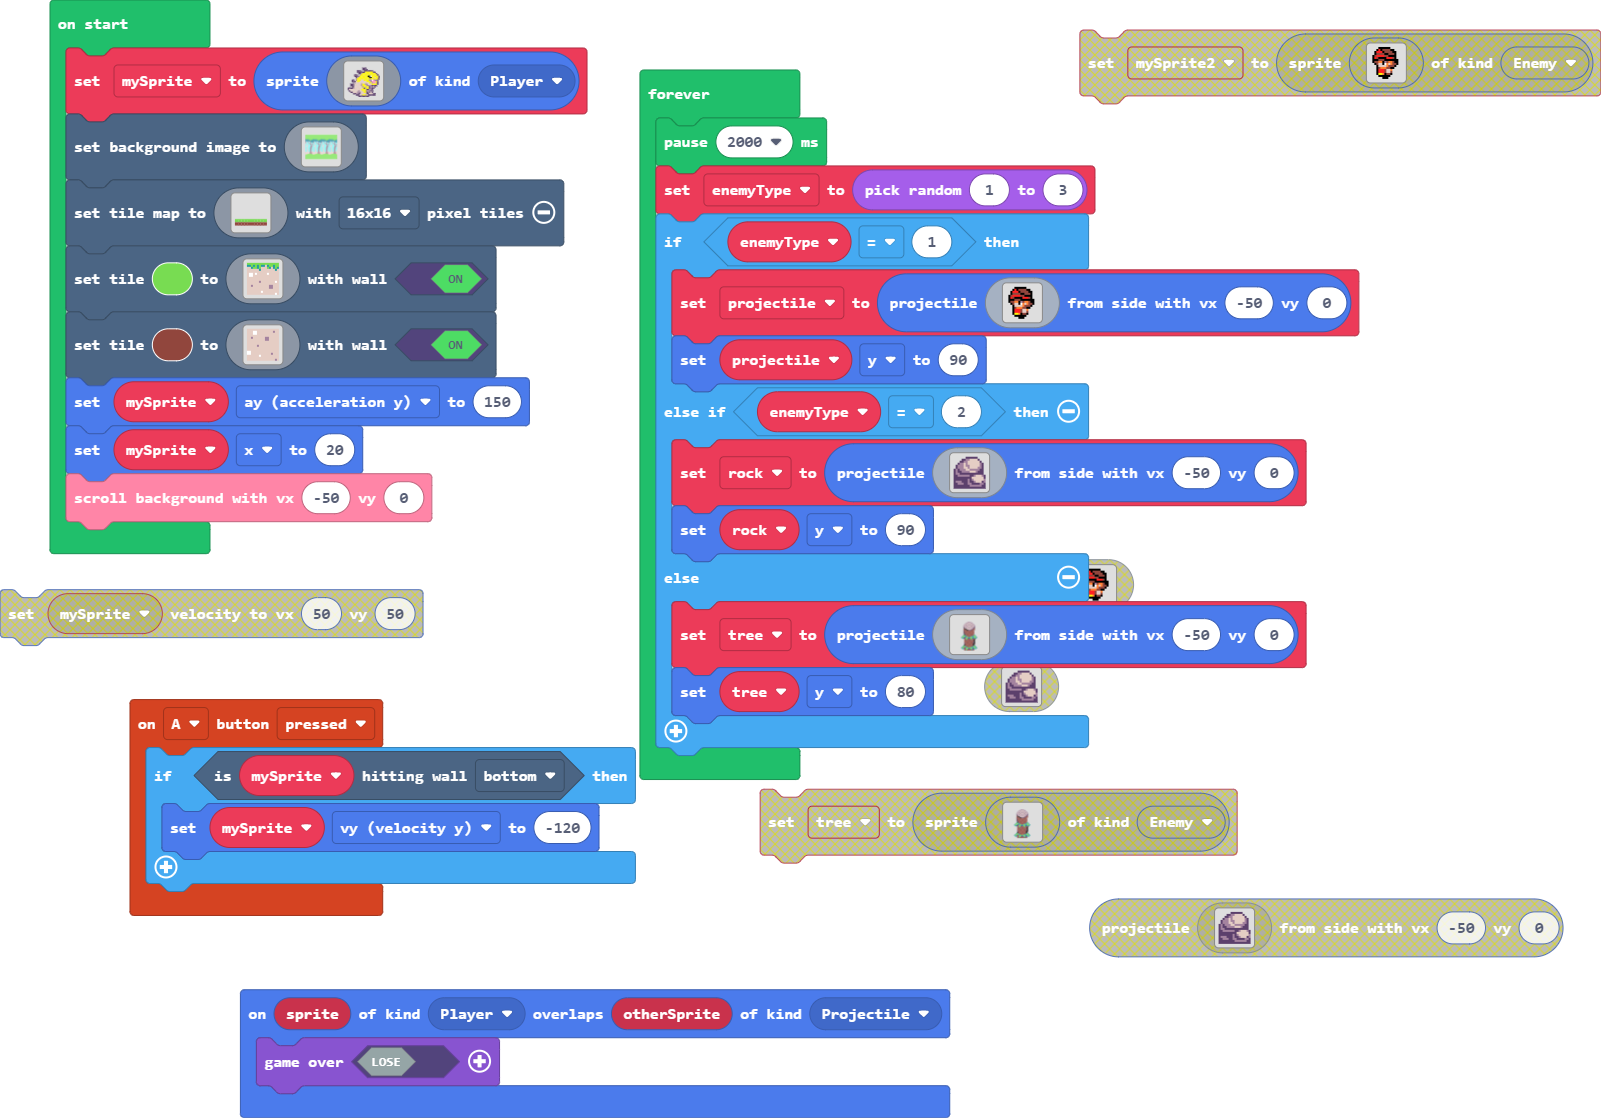
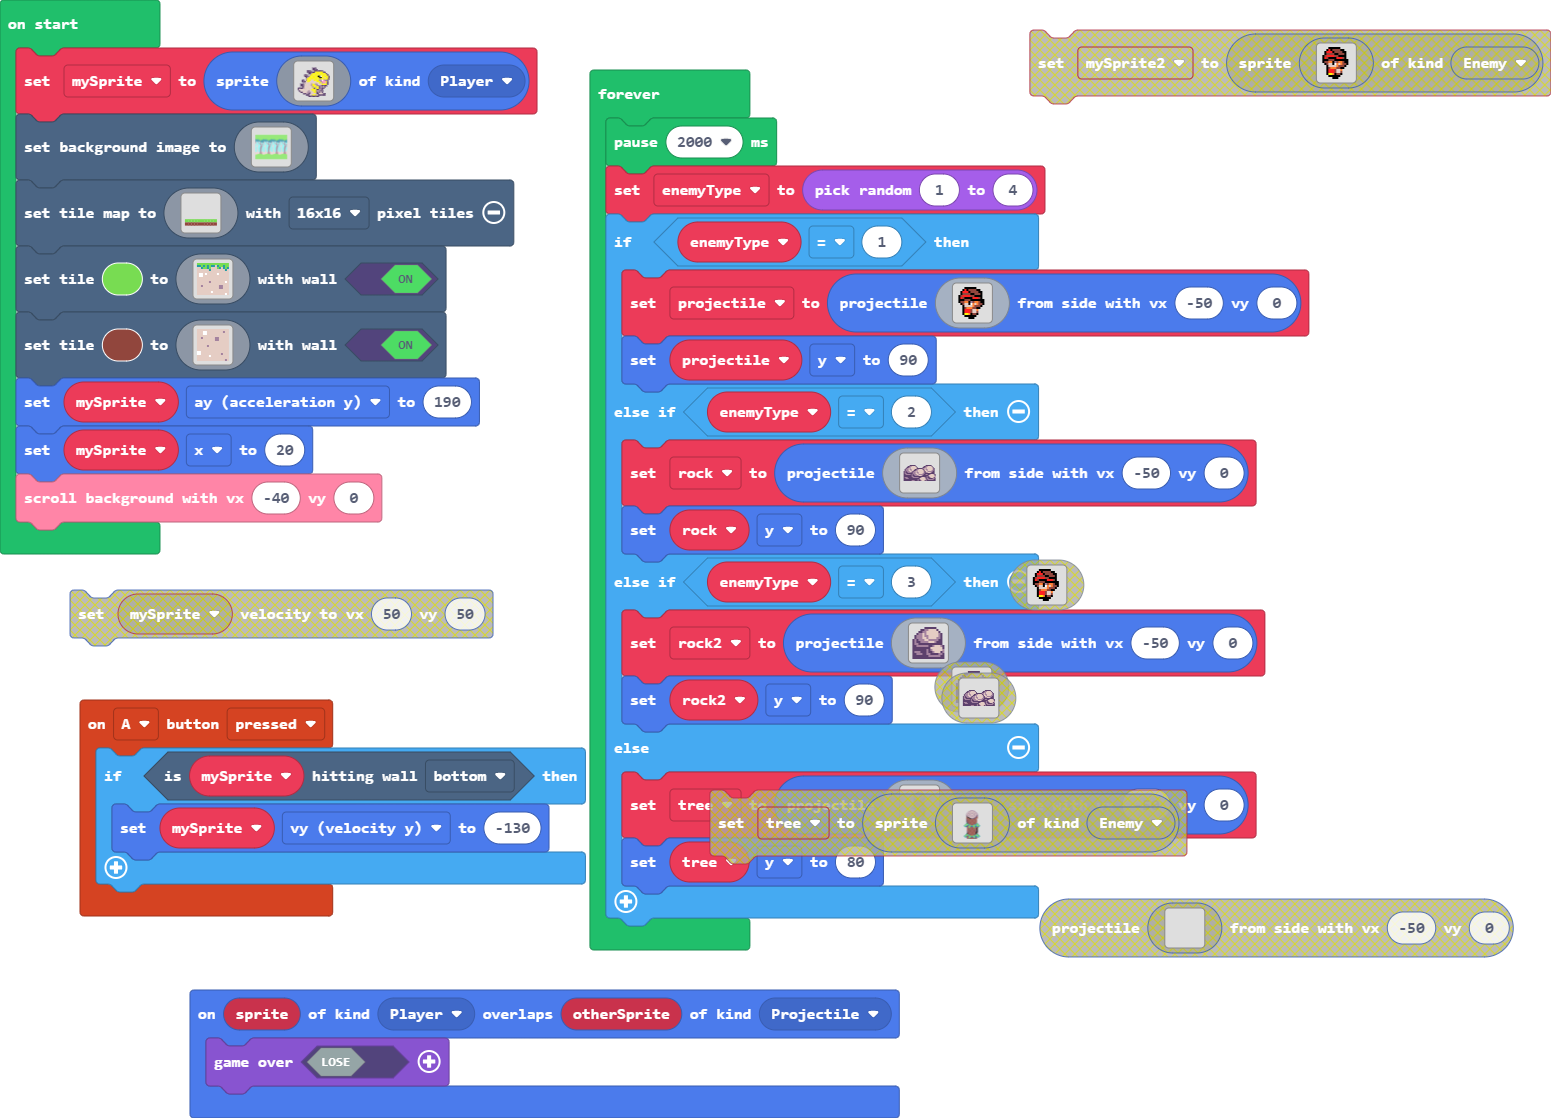
Update main.blocks, main.ts

diff --git a/main.ts b/main.ts
@@ -1,12 +1,13 @@
 controller.A.onEvent(ControllerButtonEvent.Pressed, function () {
     if (mySprite.isHittingTile(CollisionDirection.Bottom)) {
-        mySprite.vy = -120
+        mySprite.vy = -130
     }
 })
 sprites.onOverlap(SpriteKind.Player, SpriteKind.Projectile, function (sprite, otherSprite) {
     game.over(false)
 })
 let tree: Sprite = null
+let rock2: Sprite = null
 let rock: Sprite = null
 let projectile: Sprite = null
 let enemyType = 0
@@ -205,12 +206,12 @@ scene.setTile(14, img`
     d d d d d d d d d d d d d d d d 
     d d d d d d d d d d d d d d b d 
     `, true)
-mySprite.ay = 150
+mySprite.ay = 190
 mySprite.x = 20
-scroller.scrollBackgroundWithSpeed(-50, 0)
+scroller.scrollBackgroundWithSpeed(-40, 0)
 forever(function () {
     pause(2000)
-    enemyType = randint(1, 3)
+    enemyType = randint(1, 4)
     if (enemyType == 1) {
         projectile = sprites.createProjectileFromSide(img`
             . . . . f f f f f f . . . . . . 
@@ -233,6 +234,26 @@ forever(function () {
         projectile.y = 90
     } else if (enemyType == 2) {
         rock = sprites.createProjectileFromSide(img`
+            ......cccccc..........cccccc....
+            ....ccbbddddc.......ccbbddddc...
+            ...ccbbddddddc.....ccbbddddddc..
+            ..cbbdbddddddccccccbbdbddddddbc.
+            .cbbbdbbdddccbbddddcbdbbdddddbc.
+            .cbbbddbddccbbddddddcddbddddbbc.
+            cbcbbbddbcbbdbddddddbcddbbbbbcc.
+            cbccbbbbcbbbdbbdddddbcbbdddbccc.
+            cbbccccccbbbddbddddbbcccccccccc.
+            ccbbbbbcbcbbbddbbbbbccbbccbdddbc
+            ccccccccbccbbbbdddbccccccddddddc
+            ccccccccbbcccccccccccccbcbdddddb
+            cbbbcccccbbbbbbccbdddbcbccbdddcb
+            ccbbbcccccccccccddddddcbbccccbbc
+            ccccccccccccccbcbdddddbcbbbbbbcc
+            ccccccccbbbcccbccbdddcbccccccccc
+            `, -50, 0)
+        rock.y = 90
+    } else if (enemyType == 3) {
+        rock2 = sprites.createProjectileFromSide(img`
             . . . . . . c c c c c c . . . . 
             . . . . c c b b d d d d c . . . 
             . . . c c b b d d d d d d c . . 
@@ -250,7 +271,7 @@ forever(function () {
             c c c c c c c c b b b b b b c c 
             c c c c c c c c c c c c c c c c 
             `, -50, 0)
-        rock.y = 90
+        rock2.y = 90
     } else {
         tree = sprites.createProjectileFromSide(img`
             ........................
